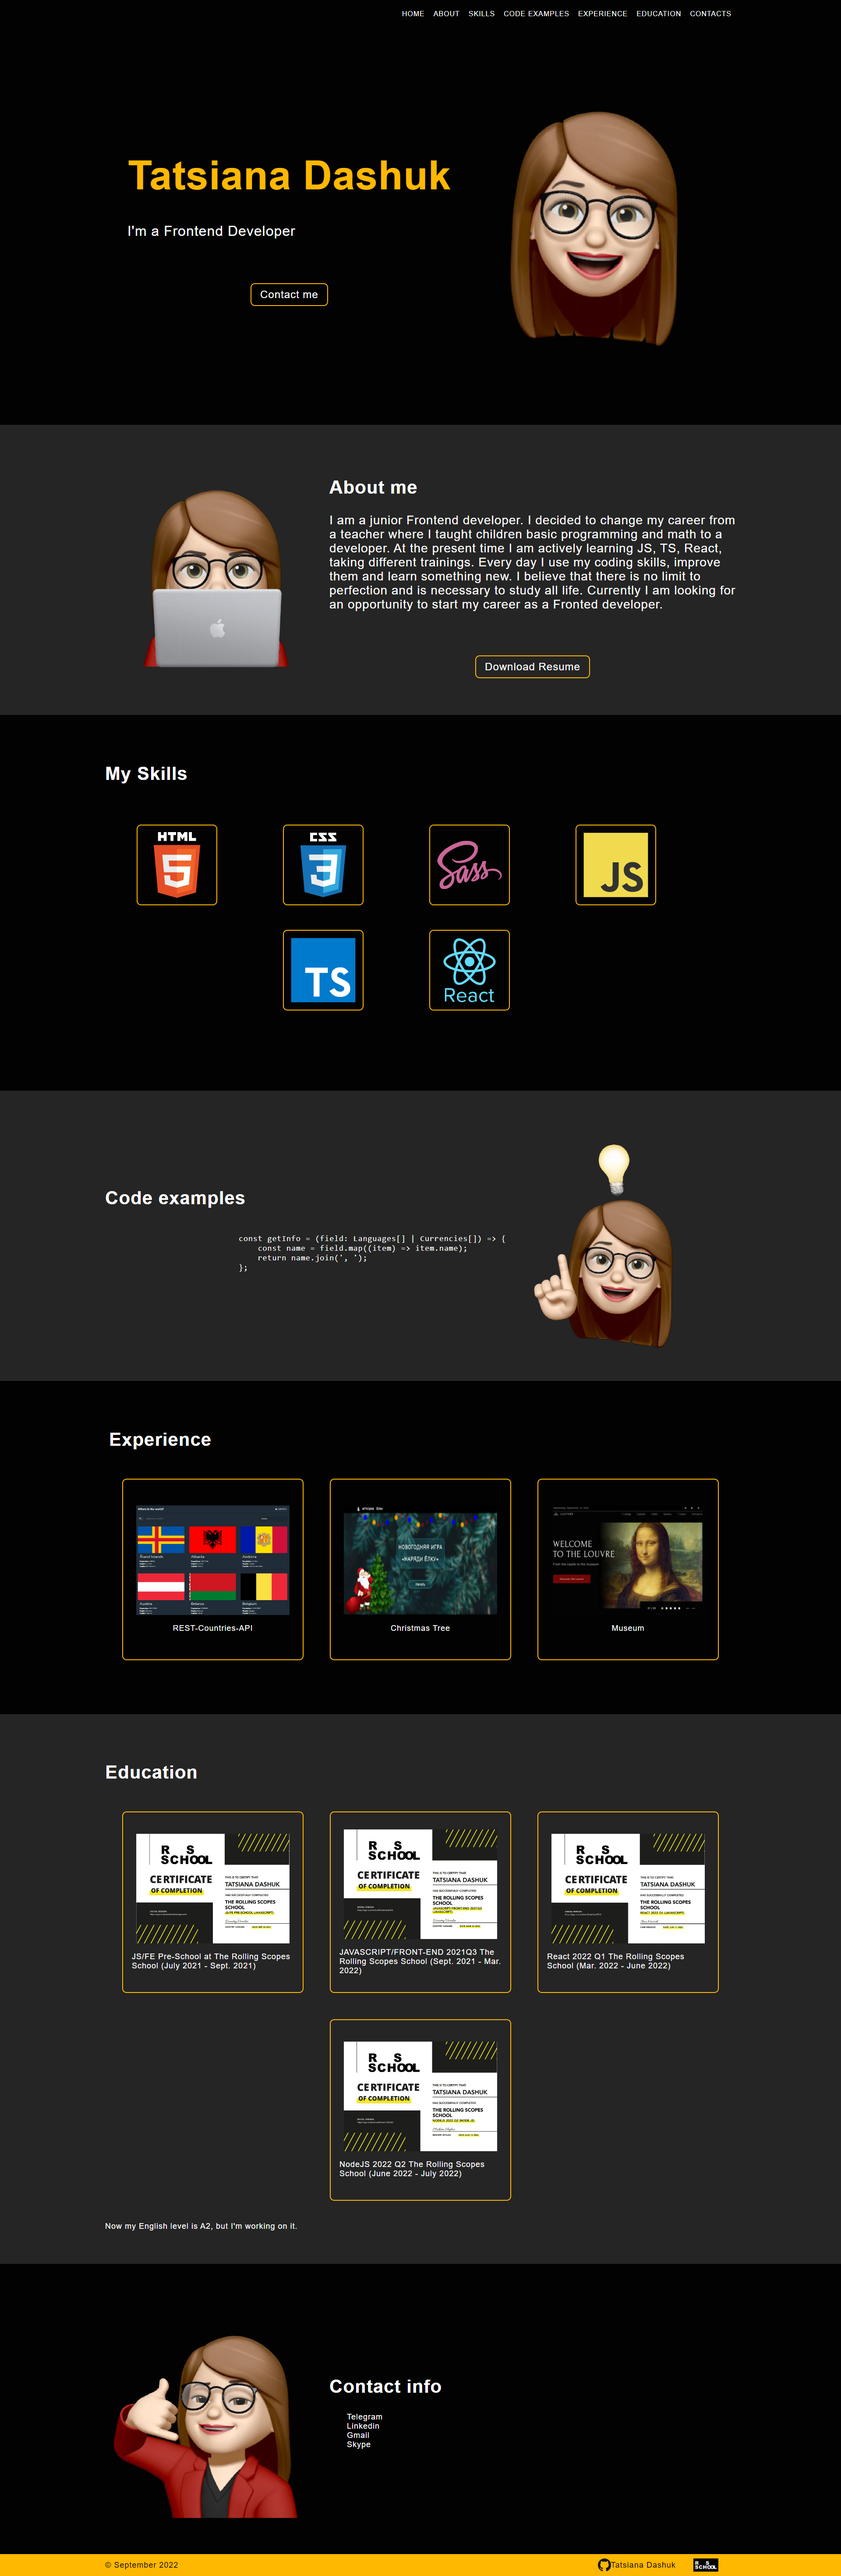
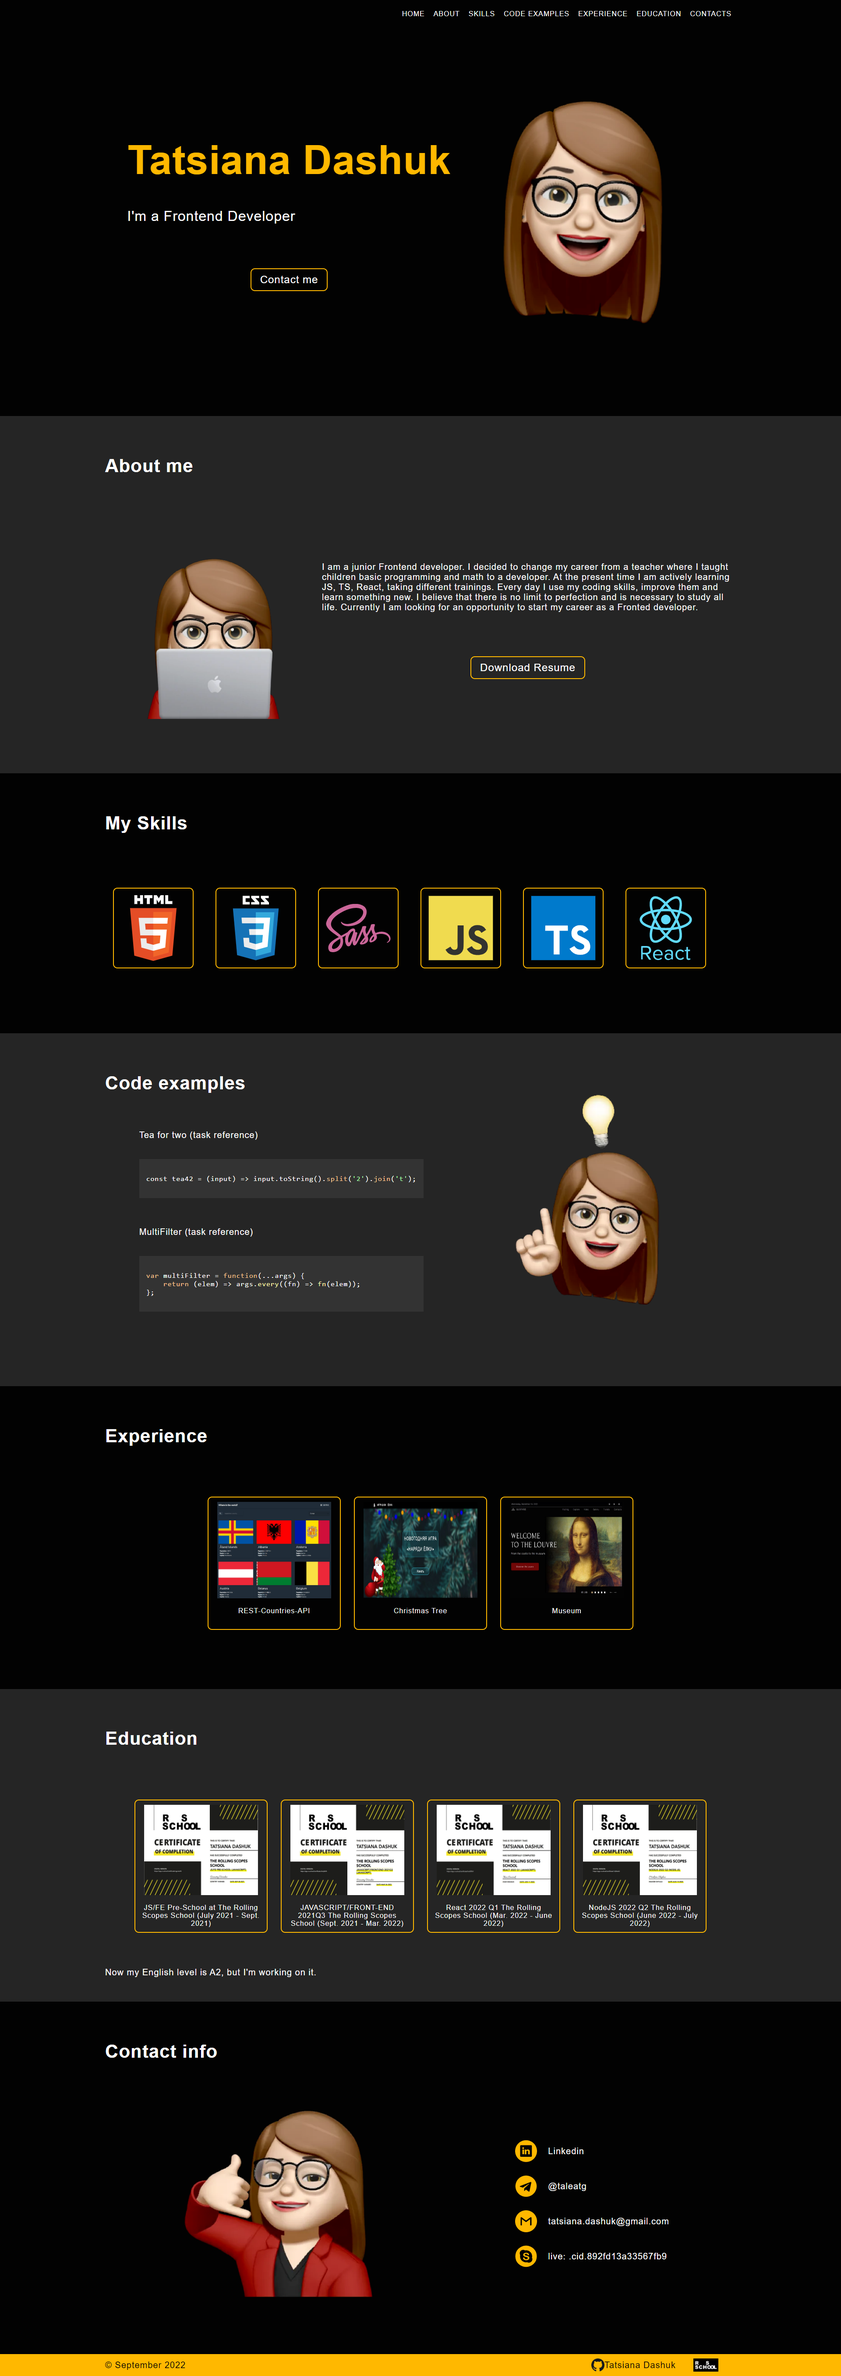
feat: add burger menu

diff --git a/style/style.scss b/style/style.scss
@@ -16,7 +16,7 @@ body {
     }
 
     @media(max-width: 481px) {
-        font-size: 16px;
+        font-size: 14px;
     }
 }
 
@@ -78,6 +78,7 @@ code {
     width: 100%;
     z-index: 10;
 
+    
     .navigation {
         margin: 0 auto;
         max-width: 1440px;
@@ -96,12 +97,86 @@ code {
                 color: #FFB800;
             }
         }
+
+        @media(max-width: 860px) {
+            display: none;
+        }
+    }
+
+    .burger-wrapper {
+        display: none;
+        
+        .burger {
+            display: flex;
+            flex-direction: column;
+            align-items: flex-end;
+            margin: 10px;
+            height: 25px;
+            background: #020202;
+
+            .burger-line {
+                display: flex;
+                height: 4px;
+                width: 32px;
+                margin-bottom: 5px;
+                background: #FFB800;
+
+                &:last-child {
+                    margin-bottom: 0;
+                }
+            }
+        }
+
+        .burger-navigation {
+            position: absolute;
+            left: -100vw;
+            margin: 0;
+            height: 100vh;   
+            opacity: 0;         
+            transition: 0.5s;
+
+            li {
+                margin: 20px 30px;
+                font-size: 20px;
+            }
+        }
+
+        @media(max-width: 860px) {
+            display: block;
+        }
+    }
+
+    .active {
+        left: 0;
+
+        .burger-line:nth-child(1) {
+            position: relative;
+            transform: rotate(45deg);
+            top: 10px;
+        }
+
+        .burger-line:nth-child(2) {
+            display: none;
+        }
+
+        .burger-line:nth-child(3) {
+            position: relative;
+            transform: rotate(-45deg);
+            top: 1px;
+        }
+
+        .burger-navigation {
+            left: 0;
+            opacity: 1;
+            background: #020202;
+            transition: 0.5s;
+        }
     }
 }
 
 .main-block {
     margin: 0 auto;
-    padding: 15vh 0 20vh;
+    padding: 18vh 0 20vh;
     max-width: 1440px;
     display: flex;
     align-items: center;

diff --git a/style/style.css b/style/style.css
@@ -20,7 +20,7 @@ body {
 
 @media (max-width: 481px) {
   body {
-    font-size: 16px;
+    font-size: 14px;
   }
 }
 
@@ -118,9 +118,100 @@ code {
   color: #FFB800;
 }
 
+@media (max-width: 860px) {
+  .header .navigation {
+    display: none;
+  }
+}
+
+.header .burger-wrapper {
+  display: none;
+}
+
+.header .burger-wrapper .burger {
+  display: -webkit-box;
+  display: -ms-flexbox;
+  display: flex;
+  -webkit-box-orient: vertical;
+  -webkit-box-direction: normal;
+      -ms-flex-direction: column;
+          flex-direction: column;
+  -webkit-box-align: end;
+      -ms-flex-align: end;
+          align-items: flex-end;
+  margin: 10px;
+  height: 25px;
+  background: #020202;
+}
+
+.header .burger-wrapper .burger .burger-line {
+  display: -webkit-box;
+  display: -ms-flexbox;
+  display: flex;
+  height: 4px;
+  width: 32px;
+  margin-bottom: 5px;
+  background: #FFB800;
+}
+
+.header .burger-wrapper .burger .burger-line:last-child {
+  margin-bottom: 0;
+}
+
+.header .burger-wrapper .burger-navigation {
+  position: absolute;
+  left: -100vw;
+  margin: 0;
+  height: 100vh;
+  opacity: 0;
+  -webkit-transition: 0.5s;
+  transition: 0.5s;
+}
+
+.header .burger-wrapper .burger-navigation li {
+  margin: 20px 30px;
+  font-size: 20px;
+}
+
+@media (max-width: 860px) {
+  .header .burger-wrapper {
+    display: block;
+  }
+}
+
+.header .active {
+  left: 0;
+}
+
+.header .active .burger-line:nth-child(1) {
+  position: relative;
+  -webkit-transform: rotate(45deg);
+          transform: rotate(45deg);
+  top: 10px;
+}
+
+.header .active .burger-line:nth-child(2) {
+  display: none;
+}
+
+.header .active .burger-line:nth-child(3) {
+  position: relative;
+  -webkit-transform: rotate(-45deg);
+          transform: rotate(-45deg);
+  top: 1px;
+}
+
+.header .active .burger-navigation {
+  left: 0;
+  opacity: 1;
+  background: #020202;
+  -webkit-transition: 0.5s;
+  transition: 0.5s;
+}
+
 .main-block {
   margin: 0 auto;
-  padding: 15vh 0 20vh;
+  padding: 18vh 0 20vh;
   max-width: 1440px;
   display: -webkit-box;
   display: -ms-flexbox;

diff --git a/index.html b/index.html
@@ -15,6 +15,23 @@
 <body>
     <header class="header">
         <nav>
+            <div class="burger-wrapper">
+                <div class="burger">
+                    <div class="burger-line"></div>
+                    <div class="burger-line"></div>
+                    <div class="burger-line"></div>
+                </div>
+                <ul class="burger-navigation">
+                    <li><a href="#home" class="navigation__item">Home</a></li>
+                    <li><a href="#summary" class="navigation__item">About</a></li>
+                    <li><a href="#skills" class="navigation__item">Skills</a></li>
+                    <li><a href="#code" class="navigation__item">Code examples</a></li>
+                    <li><a href="#experience" class="navigation__item">Experience</a></li>
+                    <li><a href="#education" class="navigation__item">Education</a></li>
+                    <li><a href="#contacts" class="navigation__item">Contacts</a></li>
+                </ul>
+            </div>
+
             <ul class="navigation">
                 <li><a href="#home" class="navigation__item">Home</a></li>
                 <li><a href="#summary" class="navigation__item">About</a></li>
@@ -26,6 +43,7 @@
             </ul>
         </nav>
     </header>
+    
     <main class="main">
         <section class="main-block" id="home">
             <div class="main-block__wrapper">
@@ -190,6 +208,7 @@ var multiFilter = function(...args) {
             </div>
         </section>
     </main>
+
     <footer class="footer">
         <div class="footer__wrapper">
             <div>© September 2022</div>
@@ -204,5 +223,7 @@ var multiFilter = function(...args) {
             </div>
         </div>
     </footer>
+
+    <script src="script.js"></script>
 </body>
 </html>

diff --git a/script.js b/script.js
@@ -1,0 +1,13 @@
+const burgerWrapper = document.querySelector('.burger-wrapper');
+const burger = document.querySelector('.burger');
+const navigation = document.querySelector('.burger-navigation');
+
+burger.addEventListener('click', () => {
+    !document.querySelector('.active') 
+        ? burgerWrapper.classList.add('active')
+        : burgerWrapper.classList.remove('active');
+});
+
+navigation.addEventListener('click', (e) => {
+    e.target.tagName === 'A' ? burgerWrapper.classList.remove('active') : null;
+})
